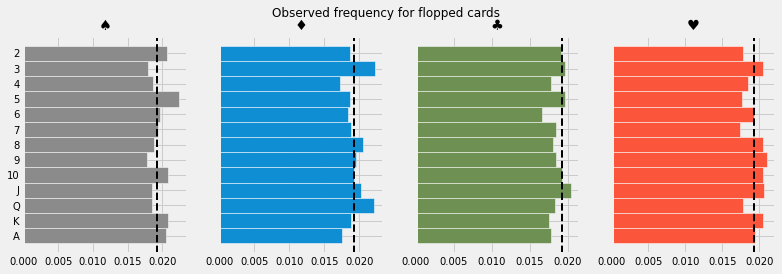
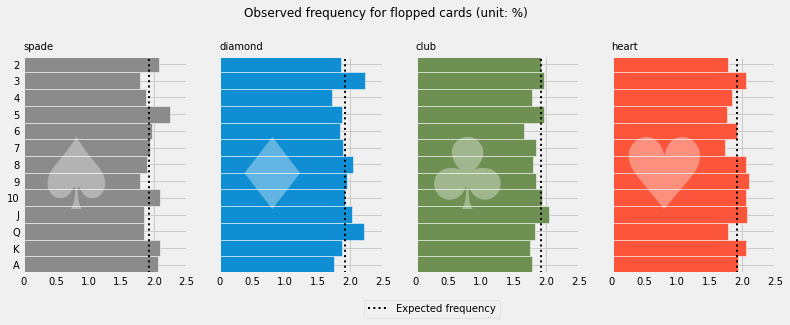
updated chart

diff --git a/A-game-setup/analyze-flops.py b/A-game-setup/analyze-flops.py
@@ -2,6 +2,8 @@ from collections import Counter
 import pandas as pd
 import glob
 import matplotlib.pyplot as plt
+from matplotlib.lines import Line2D
+
 plt.style.use('fivethirtyeight')
 
 def card_sorter(card_str, by='rank'):
@@ -80,30 +82,42 @@ cc = cc.sort_values(by='_value', ascending=False)
 cc['freq %'] = (cc['freq'] / cc['freq'].sum()).round(5)
 
 
-cc.head()
-
 # plot
 fig, axes = plt.subplots(1, 4, figsize=(12, 4), sharey=True)
 
+# init blank plot to align y-axis label
 axes[0].barh(
     y=cc.iloc[:13]['rank'],
     width=0,
 )
+suit_names = ['spade', 'diamond', 'club', 'heart']
+suits = ['♠', '♦', '♣', '♥']
+# colors = ['#8b8b8b', '#8b8b8b', '#8b8b8b', '#8b8b8b']
+colors = ['#8b8b8b', '#0f8ed3', '#6e9052', '#fb553b']
 
-
-for ax, suit, color in zip(axes, ['♠', '♦', '♣', '♥'], ['#8b8b8b', '#0f8ed3', '#6e9052', '#fb553b']):
+for ax, suit, suit_name, color in zip(axes, suits, suit_names, colors):
     ax.barh(
         y=cc[cc['suit']==suit]['rank'],
         width=cc[cc['suit']==suit]['freq %'],
         height=1,
         ec='white',
-        fc=color,
+        # fc='#8b8b8b',
+        fc=color
+        # alpha=.75
     )
-    ax.set_title(suit)
-    avg_line = ax.axvline(x=1/52, ls='--', c='k', lw=2)
+    ax.set_title(suit_name, size=10, loc='left')
+    ax.set_xlim(0, .025)
+    ax.set_ylim(-.5, 12.5)
+    labels = ax.get_xticks().tolist()
+    labels = [0] + [100*_ for _ in labels[1:]]
+    ax.set_xticklabels(labels)
+    ax.text(.008, 5, suit, size=99, color='white', ha='center', va='center', alpha=.35)
+    avg_line = ax.axvline(x=1/52, ls=':', c='k', lw=2)
 
-fig.suptitle('Observed frequency for flopped cards')
+fig.suptitle('Observed frequency for flopped cards (unit: %)', y=1.05)
 
+legend_elements = [Line2D([0], [0], color='k', ls=':', lw=2, label='Expected frequency')]
+axes[0].legend(handles=legend_elements, loc='upper center', bbox_to_anchor=(2.5, -0.1))
 
 # avg_label = ax.annotate(
 #     text='Expected\nfrequency',
@@ -113,8 +127,8 @@ fig.suptitle('Observed frequency for flopped cards')
 #     ha='left', va='center'
 #     )
 # avg_label.remove()
-
 fig.savefig('../resources/flop-dist.png', bbox_inches='tight')
+
 
 # let's do a chi-squared test
 cc['expected_freq'] = 1/52 * cc['freq'].sum()
